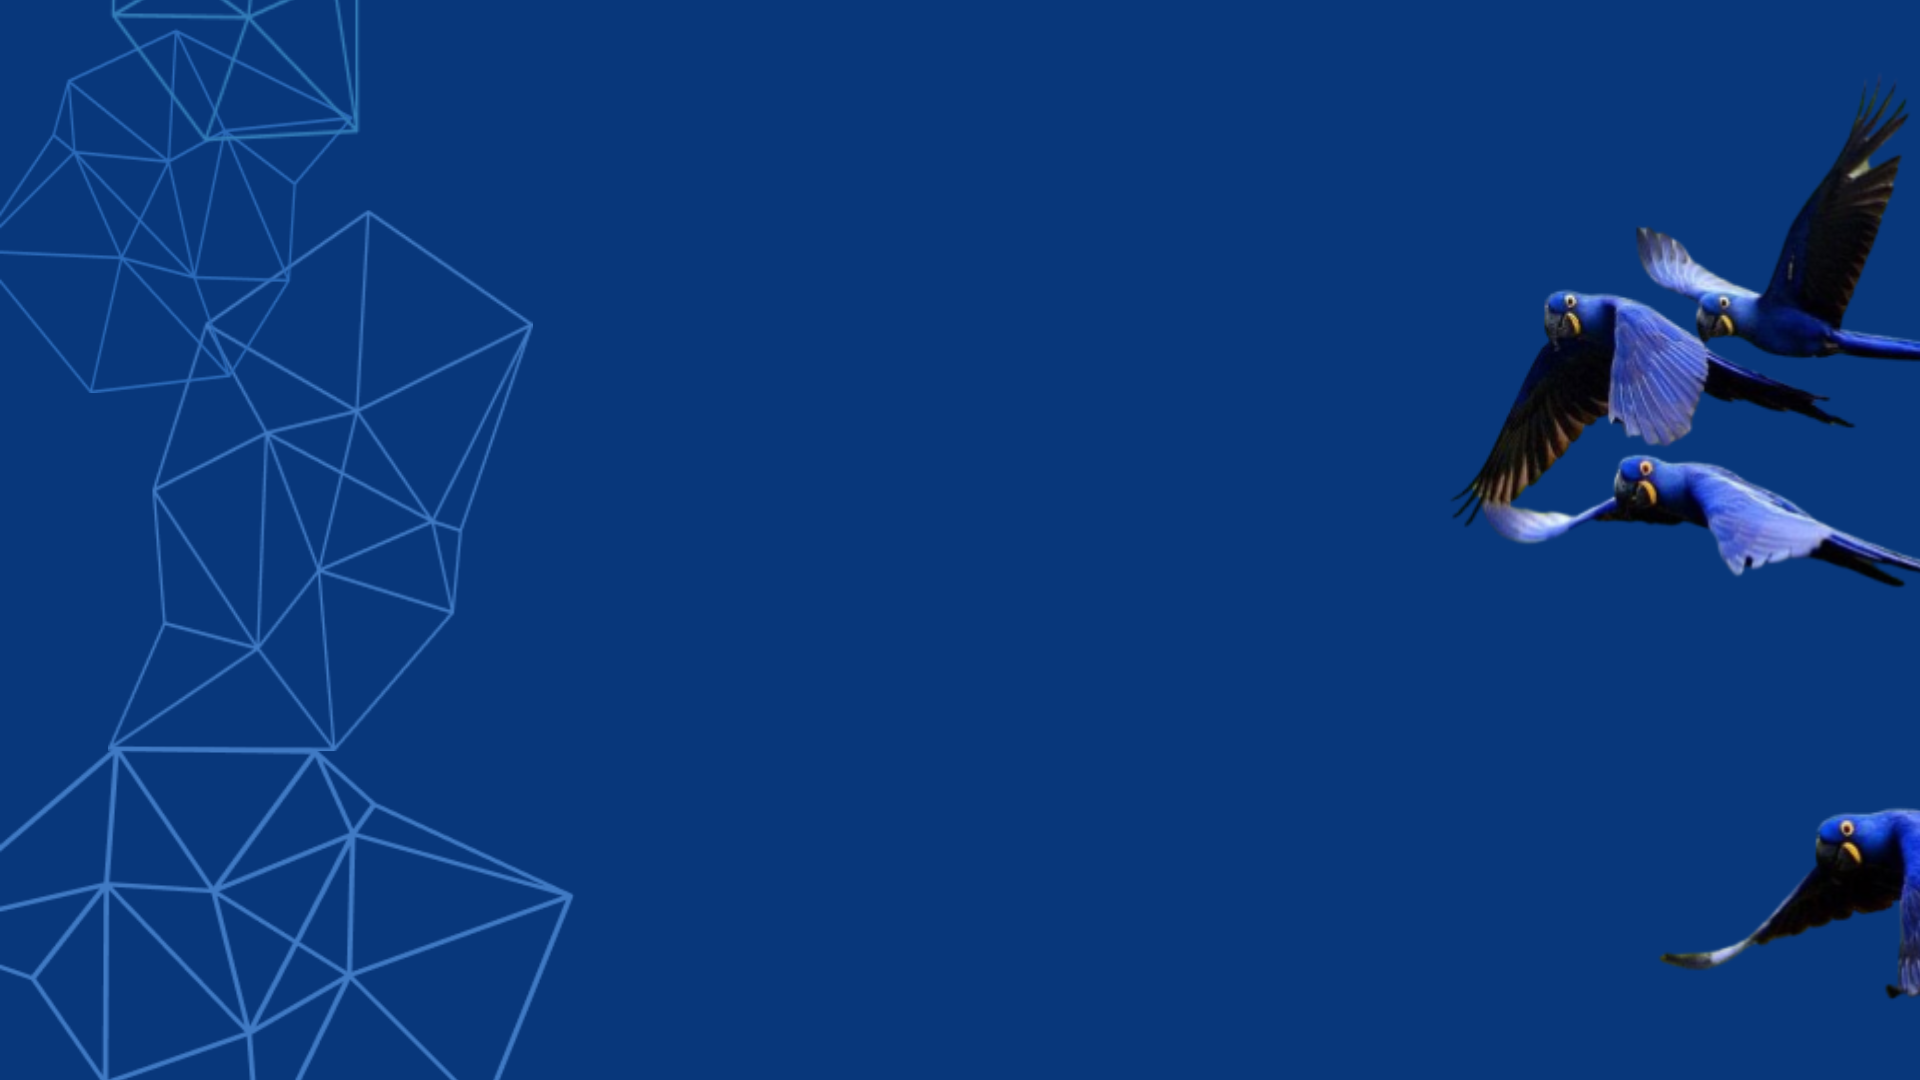
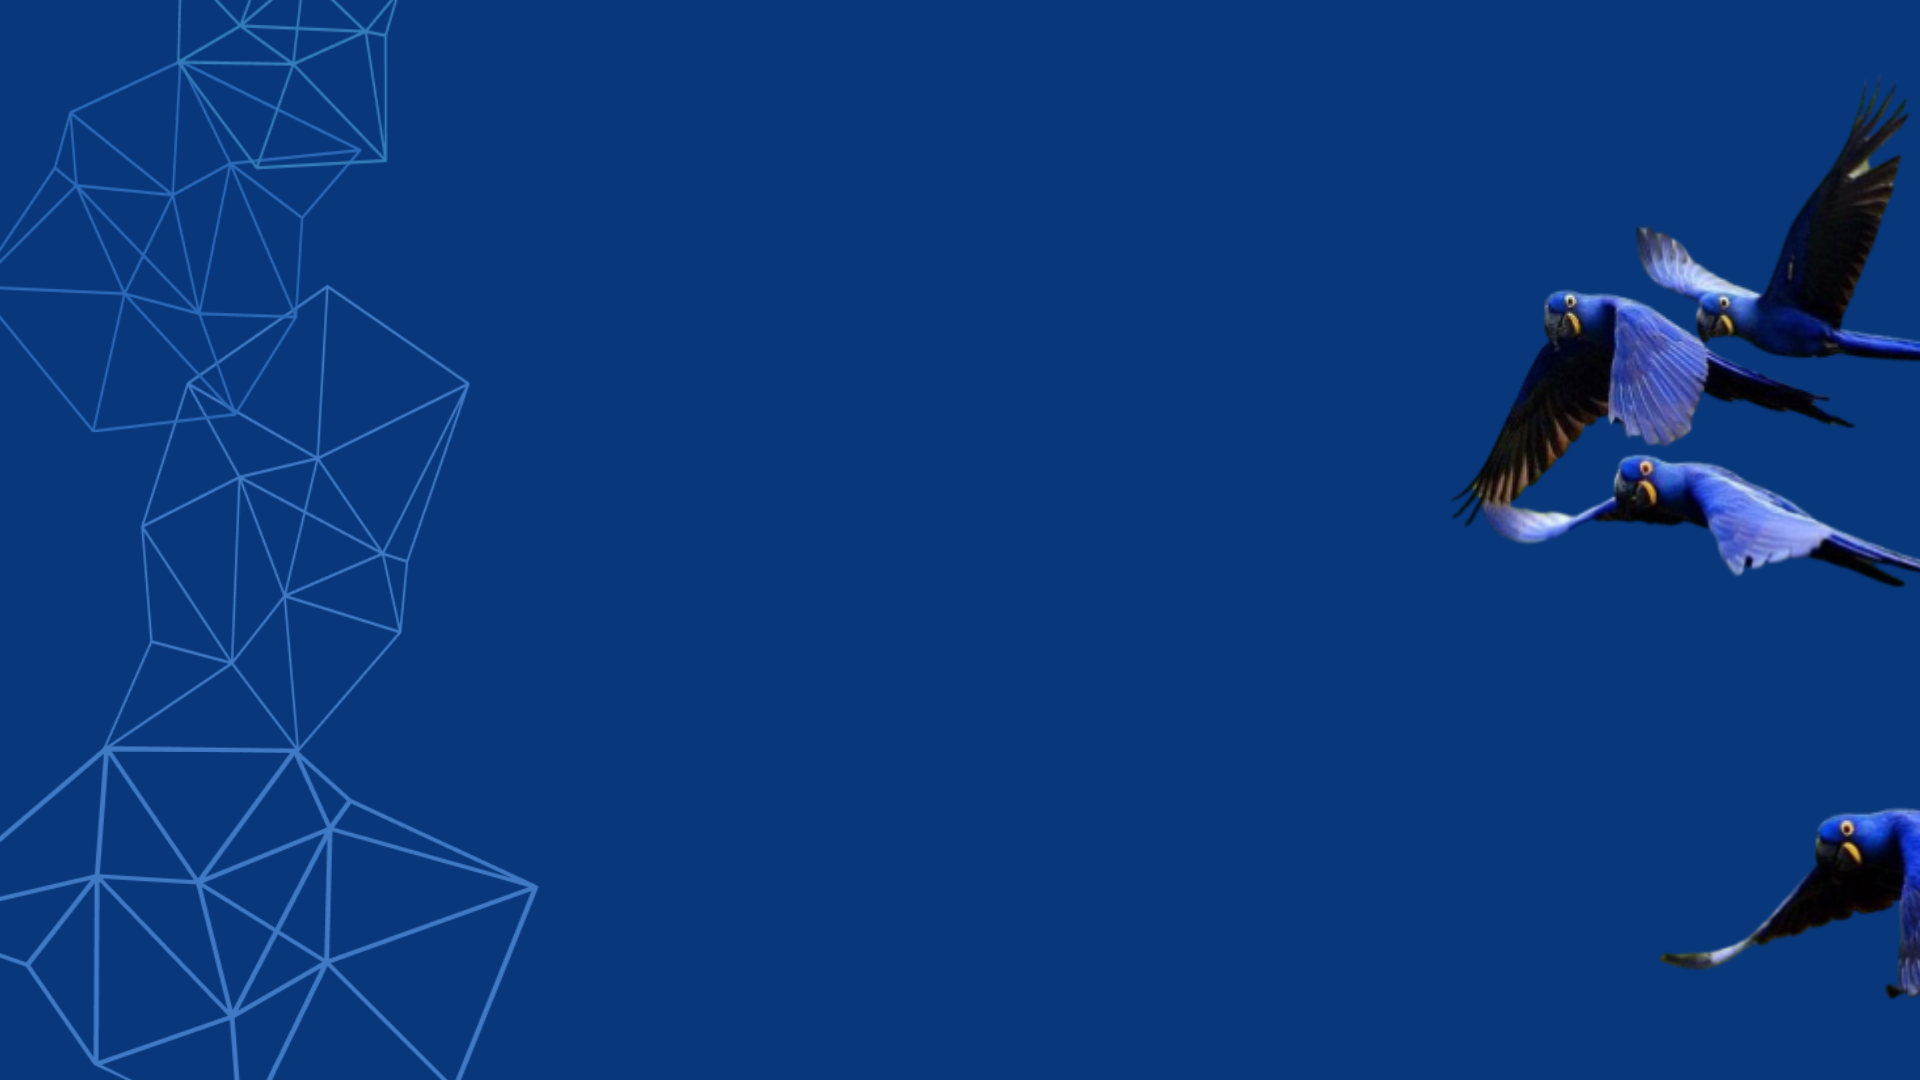
update: melhora resolução do fundo

Changed region(s): [[0.0, 0.0, 0.3125, 1.0]]

diff --git a/styles.css b/styles.css
@@ -96,10 +96,6 @@
 }
 
 @media (max-width: 1366px) and (max-height: 800px) {
-    .container-background1{
-        height: auto;
-    }
-    
     .container-background2 {
         height: auto;
     }
